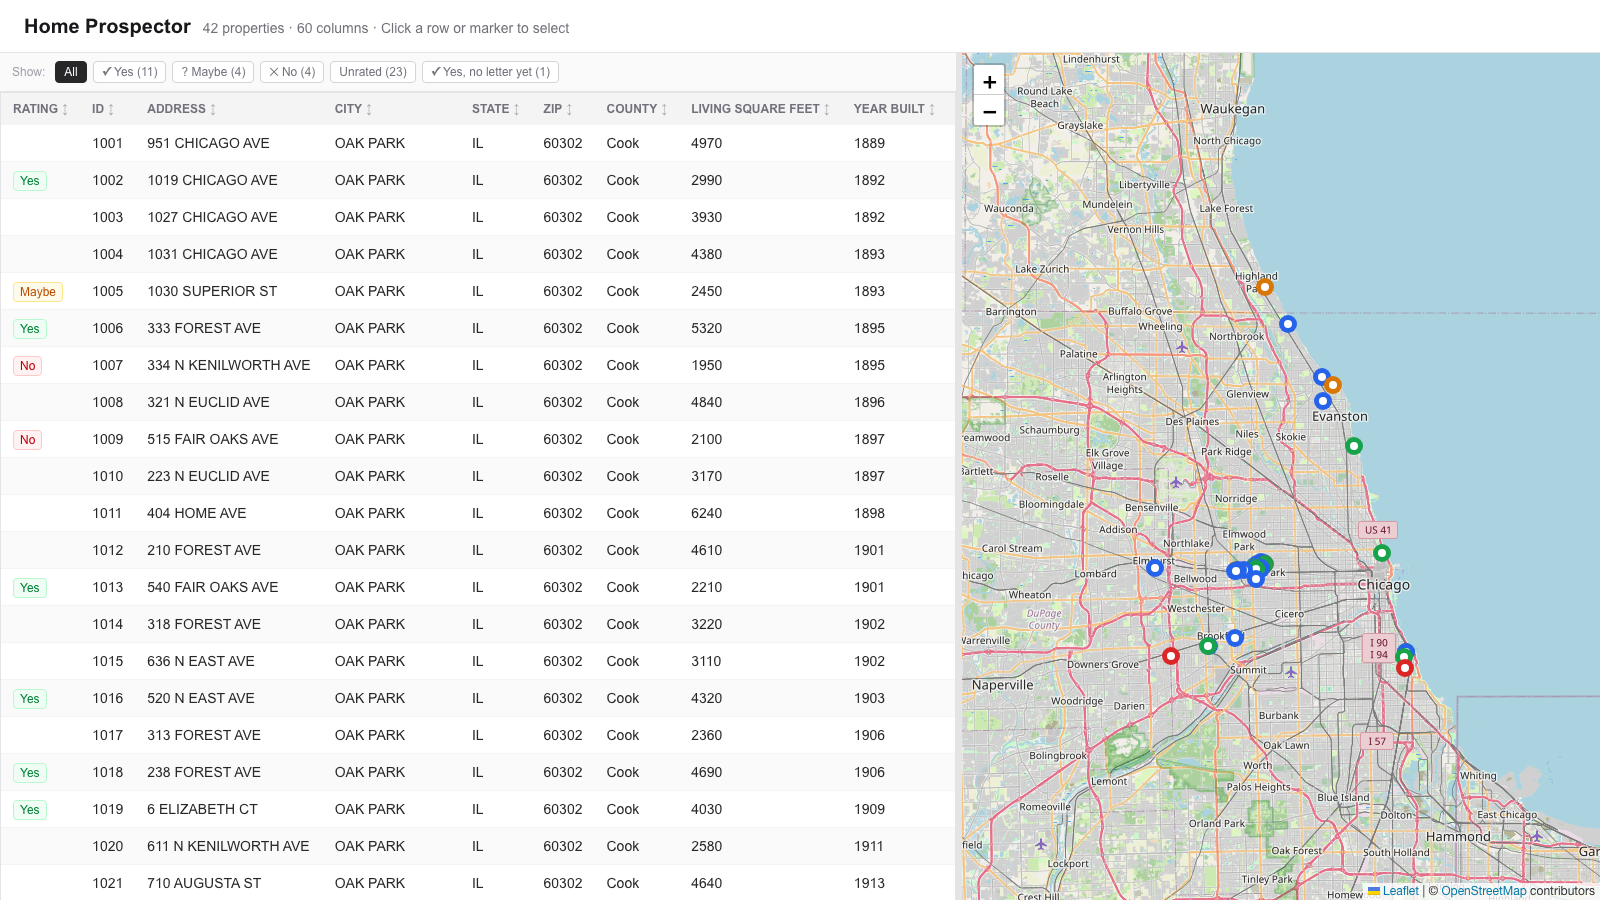
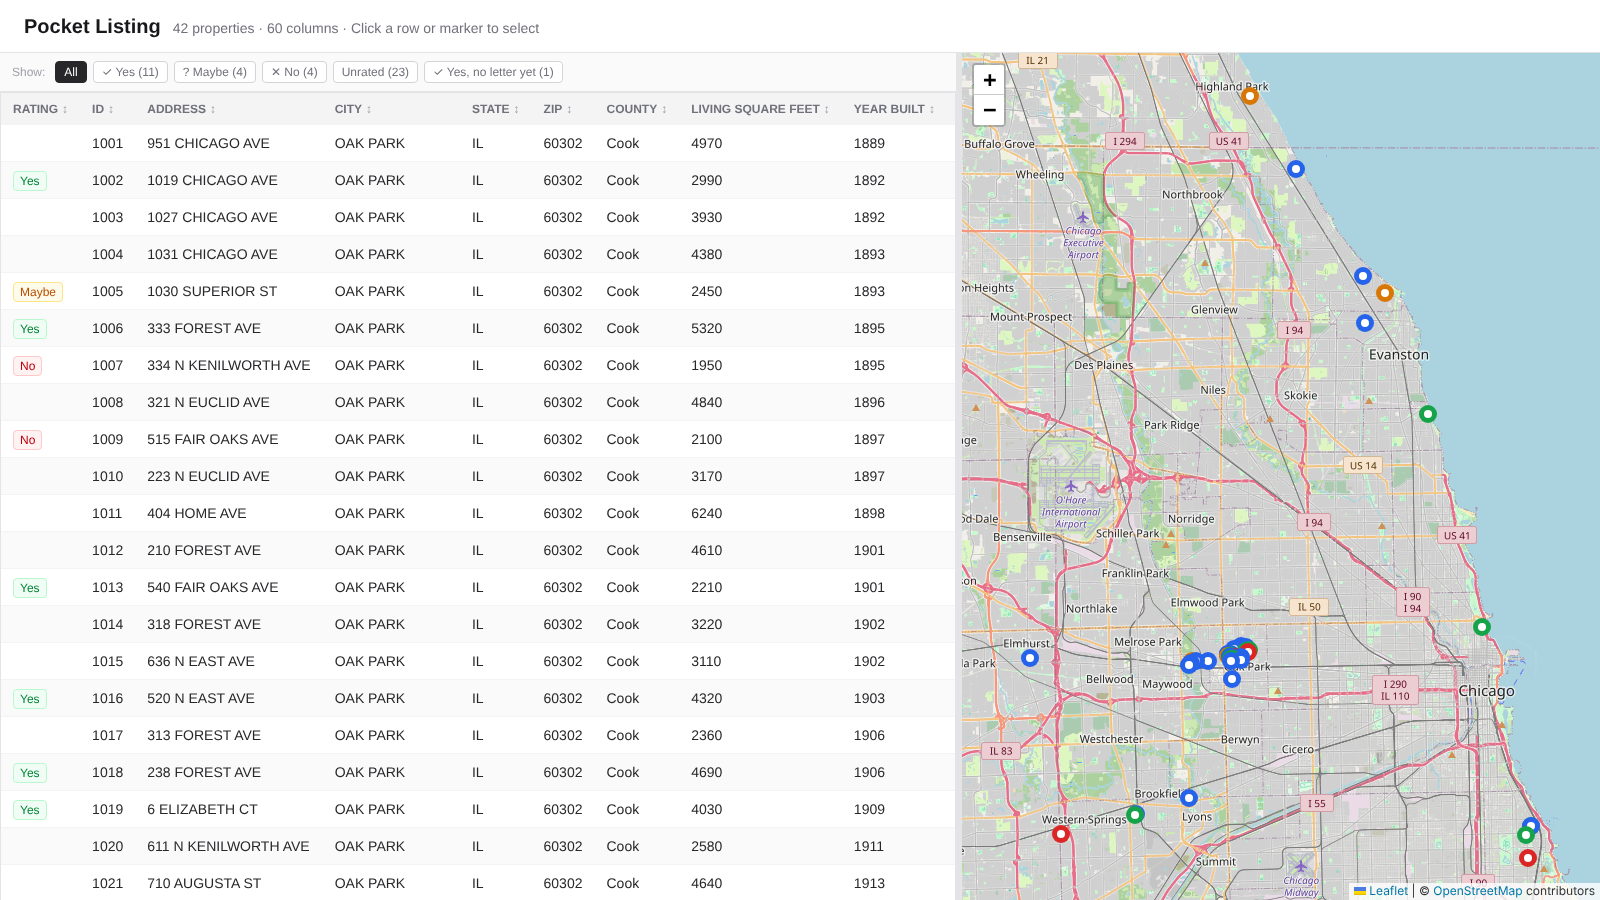
Rename to "Pocket Listing" and refresh screenshot
Claude-Session: https://claude.ai/code/session_01Lort15LQZHSBAX5QNSpBZF

diff --git a/app/page.tsx b/app/page.tsx
@@ -35,7 +35,7 @@ export default function Home() {
     <div className="h-screen flex flex-col">
       <div className="px-6 py-3 border-b border-zinc-200 bg-white shrink-0">
         <h1 className="text-xl font-semibold text-zinc-900 inline mr-3">
-          Home Prospector
+          Pocket Listing
         </h1>
         <span className="text-sm text-zinc-500">
           {data.length} properties · {columns.length} columns · Click a row or

diff --git a/app/layout.tsx b/app/layout.tsx
@@ -13,7 +13,7 @@ const geistMono = Geist_Mono({
 });
 
 export const metadata: Metadata = {
-  title: "Home Prospector",
+  title: "Pocket Listing",
   description: "Property data explorer",
 };
 

diff --git a/README.md b/README.md
@@ -1,8 +1,8 @@
-# Home Prospector
+# Pocket Listing
 
 Find your next house before it hits the market: shortlist homes you love and write to their owners.
 
-![Home Prospector showing sample Frank Lloyd Wright homes in a table and on a map](docs/screenshot.png)
+![Pocket Listing showing sample Frank Lloyd Wright homes in a table and on a map](docs/screenshot.png)
 
 ## How it's meant to be used
 
